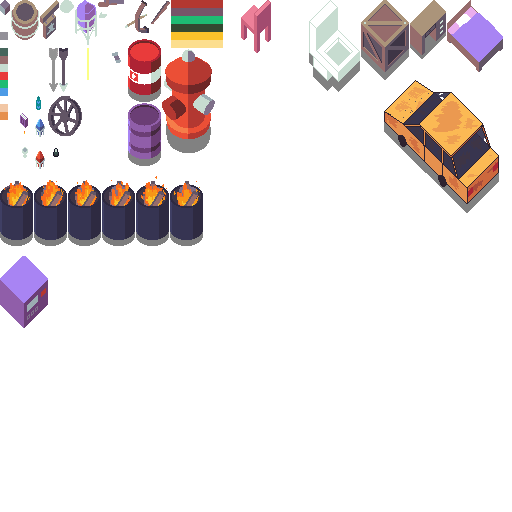
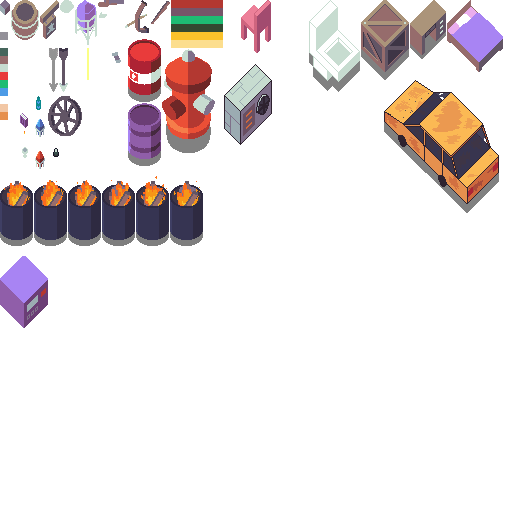
0.7.030

Changed region(s): [[0.4375, 0.125, 0.5312, 0.2812]]

diff --git a/bleed-common/lib/src/item_type.dart b/bleed-common/lib/src/item_type.dart
@@ -87,6 +87,7 @@ class ItemType {
   static const GameObjects_Vending_Machine      = Index_GameObjects + 24;
   static const GameObjects_Bed                  = Index_GameObjects + 25;
   static const GameObjects_Firehydrant          = Index_GameObjects + 26;
+  static const GameObjects_Aircon_South         = Index_GameObjects + 27;
 
   static const Resource_Wood = Index_Resources + 5;
   static const Resource_Stone = Index_Resources + 6;
@@ -227,7 +228,7 @@ class ItemType {
     GameObjects_Barrel_Explosive: 18,
   }[value] ?? 15;
 
-  static bool isCollidable(int value) =>
+  static bool isStrikable(int value) =>
       value == GameObjects_Barrel_Purple     ||
       value == GameObjects_Barrel_Explosive  ||
       value == GameObjects_Barrel_Flaming    ||
@@ -248,6 +249,7 @@ class ItemType {
     GameObjects_Firehydrant,
     GameObjects_Bed,
     GameObjects_Desk,
+    GameObjects_Aircon_South,
   ].contains(value);
 
   static bool isInteractable(int value) => const [
@@ -268,6 +270,7 @@ class ItemType {
     value == GameObjects_Toilet            ||
     value == GameObjects_Firehydrant       ||
     value == GameObjects_Car               ||
+    value == GameObjects_Aircon_South      ||
     value == GameObjects_Tavern_Sign        ;
 
   static bool isTypeEquipped(int value) =>
@@ -658,6 +661,7 @@ class ItemType {
      GameObjects_Barrel_Explosive: "Explosive Barrel",
      GameObjects_Barrel_Purple: "Purple Barrel",
      GameObjects_Barrel_Flaming: "Flaming Barrel",
+     GameObjects_Tavern_Sign: "Tavern Sign",
      GameObjects_Toilet: "Toilet",
      GameObjects_Crate_Wooden: "Wooden Crate",
      GameObjects_Desk: "Wooden Desk",
@@ -782,6 +786,7 @@ class ItemType {
      GameObjects_Bed,
      GameObjects_Firehydrant,
      GameObjects_Car,
+     GameObjects_Aircon_South
   ];
 
   static bool isTypeBarrel(int type)=> const [

diff --git a/bleed-server/lib/common/src/item_type.dart b/bleed-server/lib/common/src/item_type.dart
@@ -87,6 +87,7 @@ class ItemType {
   static const GameObjects_Vending_Machine      = Index_GameObjects + 24;
   static const GameObjects_Bed                  = Index_GameObjects + 25;
   static const GameObjects_Firehydrant          = Index_GameObjects + 26;
+  static const GameObjects_Aircon_South         = Index_GameObjects + 27;
 
   static const Resource_Wood = Index_Resources + 5;
   static const Resource_Stone = Index_Resources + 6;
@@ -227,7 +228,7 @@ class ItemType {
     GameObjects_Barrel_Explosive: 18,
   }[value] ?? 15;
 
-  static bool isCollidable(int value) =>
+  static bool isStrikable(int value) =>
       value == GameObjects_Barrel_Purple     ||
       value == GameObjects_Barrel_Explosive  ||
       value == GameObjects_Barrel_Flaming    ||
@@ -248,6 +249,7 @@ class ItemType {
     GameObjects_Firehydrant,
     GameObjects_Bed,
     GameObjects_Desk,
+    GameObjects_Aircon_South,
   ].contains(value);
 
   static bool isInteractable(int value) => const [
@@ -268,6 +270,7 @@ class ItemType {
     value == GameObjects_Toilet            ||
     value == GameObjects_Firehydrant       ||
     value == GameObjects_Car               ||
+    value == GameObjects_Aircon_South      ||
     value == GameObjects_Tavern_Sign        ;
 
   static bool isTypeEquipped(int value) =>
@@ -658,6 +661,7 @@ class ItemType {
      GameObjects_Barrel_Explosive: "Explosive Barrel",
      GameObjects_Barrel_Purple: "Purple Barrel",
      GameObjects_Barrel_Flaming: "Flaming Barrel",
+     GameObjects_Tavern_Sign: "Tavern Sign",
      GameObjects_Toilet: "Toilet",
      GameObjects_Crate_Wooden: "Wooden Crate",
      GameObjects_Desk: "Wooden Desk",
@@ -782,6 +786,7 @@ class ItemType {
      GameObjects_Bed,
      GameObjects_Firehydrant,
      GameObjects_Car,
+     GameObjects_Aircon_South
   ];
 
   static bool isTypeBarrel(int type)=> const [

diff --git a/gamestream_flutter/lib/game_atlas.dart b/gamestream_flutter/lib/game_atlas.dart
@@ -18,6 +18,7 @@ class AtlasItems {
         ItemType.GameObjects_Grenade: 53,
         ItemType.GameObjects_Crystal_Small_Red: 35,
         ItemType.GameObjects_Crystal_Small_Blue: 35,
+        ItemType.GameObjects_Aircon_South: 224,
         ItemType.GameObjects_Toilet: 309,
         ItemType.GameObjects_Crate_Wooden: 361,
         ItemType.GameObjects_Desk: 410,
@@ -108,6 +109,7 @@ class AtlasItems {
         ItemType.GameObjects_Vending_Machine: 256,
         ItemType.GameObjects_Bed: 0,
         ItemType.GameObjects_Firehydrant: 49,
+        ItemType.GameObjects_Aircon_South: 64,
         ItemType.Trinket_Ring_of_Health: 32,
         ItemType.Trinket_Ring_of_Damage: 32,
         ItemType.Weapon_Ranged_Shotgun: 32,
@@ -185,6 +187,7 @@ class AtlasItems {
         ItemType.GameObjects_Vending_Machine: 48,
         ItemType.GameObjects_Bed: 56,
         ItemType.GameObjects_Firehydrant: 53,
+        ItemType.GameObjects_Aircon_South: 48,
         ItemType.Weapon_Rifle_Sniper: 48,
         ItemType.Weapon_Flamethrower: 64,
         ItemType.Weapon_Special_Bazooka: 48,
@@ -210,6 +213,7 @@ class AtlasItems {
         ItemType.GameObjects_Toilet: 92,
         ItemType.GameObjects_Vending_Machine: 72,
         ItemType.GameObjects_Bed: 72,
+        ItemType.GameObjects_Aircon_South: 81,
         ItemType.Weapon_Rifle_Sniper: 16,
         ItemType.Weapon_Special_Bazooka: 16,
         ItemType.Weapon_Special_Minigun: 12,
@@ -223,6 +227,7 @@ class AtlasItems {
         ItemType.GameObjects_Crate_Wooden: 0.75,
         ItemType.GameObjects_Firehydrant: 0.4,
         ItemType.GameObjects_Car: 0.66,
+        ItemType.GameObjects_Aircon_South: 0.6,
   }[itemType] ?? 1.0;
 
 

diff --git a/gamestream_flutter/lib/game_debug.dart b/gamestream_flutter/lib/game_debug.dart
@@ -51,6 +51,8 @@ class GameDebug {
                                 "player-weapon: ${ItemType.getName(GamePlayer.weapon.value)}\n"
                                 "player-interact-mode: ${InteractMode.getName(ServerState.interactMode.value)}\n"
                                 "scene-light-sources: ${ClientState.nodesLightSourcesTotal}\n"
+                                "total-gameobjects: ${ServerState.totalGameObjects}\n"
+                                "total-characters: ${ServerState.totalCharacters}\n"
                                 "offscreen-nodes: left: ${RendererNodes.offscreenNodesLeft}, top: ${RendererNodes.offscreenNodesTop}, right: ${RendererNodes.offscreenNodesRight}, bottom: ${RendererNodes.offscreenNodesBottom}"
                             )),
                             Refresh(() => text('touch-world: x: ${GameIO.touchCursorWorldX.toInt()}, y: ${GameIO.touchCursorWorldY.toInt()}')),

diff --git a/bleed-server/lib/src/classes/src/gameobject.dart b/bleed-server/lib/src/classes/src/gameobject.dart
@@ -16,7 +16,7 @@ class GameObject extends Collider {
      collectable      = ItemType.isCollectable(value);
      physical         = ItemType.isPhysical(value);
      fixed            = ItemType.isFixed(value);
-     strikable       = ItemType.isCollidable(value);
+     strikable       = ItemType.isStrikable(value);
      persistable      = ItemType.isPersistable(value);
      interactable     = ItemType.isInteractable(value);
   }

diff --git a/gamestream_flutter/lib/src/server/src/server_state.dart b/gamestream_flutter/lib/src/server/src/server_state.dart
@@ -114,6 +114,11 @@ class ServerState {
         continue;
       }
 
+      if (gameObject.type == ItemType.GameObjects_Tavern_Sign) {
+        GameState.applyVector3Emission(gameObject, hue: 150, saturation: 150, value: 150, alpha: 100);
+        continue;
+      }
+
       if (gameObject.type == ItemType.GameObjects_Grenade) {
         GameState.applyVector3Emission(gameObject,
           hue: GameNodes.ambient_hue,

diff --git a/bleed-server/lib/src/classes/src/game.dart b/bleed-server/lib/src/classes/src/game.dart
@@ -2082,7 +2082,7 @@ abstract class Game {
       z: z,
       type: type,
     );
-    instance.strikable   = ItemType.isCollidable(type);
+    instance.strikable   = ItemType.isStrikable(type);
     instance.physical     = ItemType.isPhysical(type);
     instance.fixed        = ItemType.isFixed(type);
     instance.friction     = GamePhysics.Friction;

diff --git a/bleed-common/lib/src/version.dart b/bleed-common/lib/src/version.dart
@@ -1,4 +1,4 @@
-const version = '0.7.029';
+const version = '0.7.030';
 
 
 

diff --git a/bleed-server/lib/common/src/version.dart b/bleed-server/lib/common/src/version.dart
@@ -1,4 +1,4 @@
-const version = '0.7.029';
+const version = '0.7.030';
 
 
 
